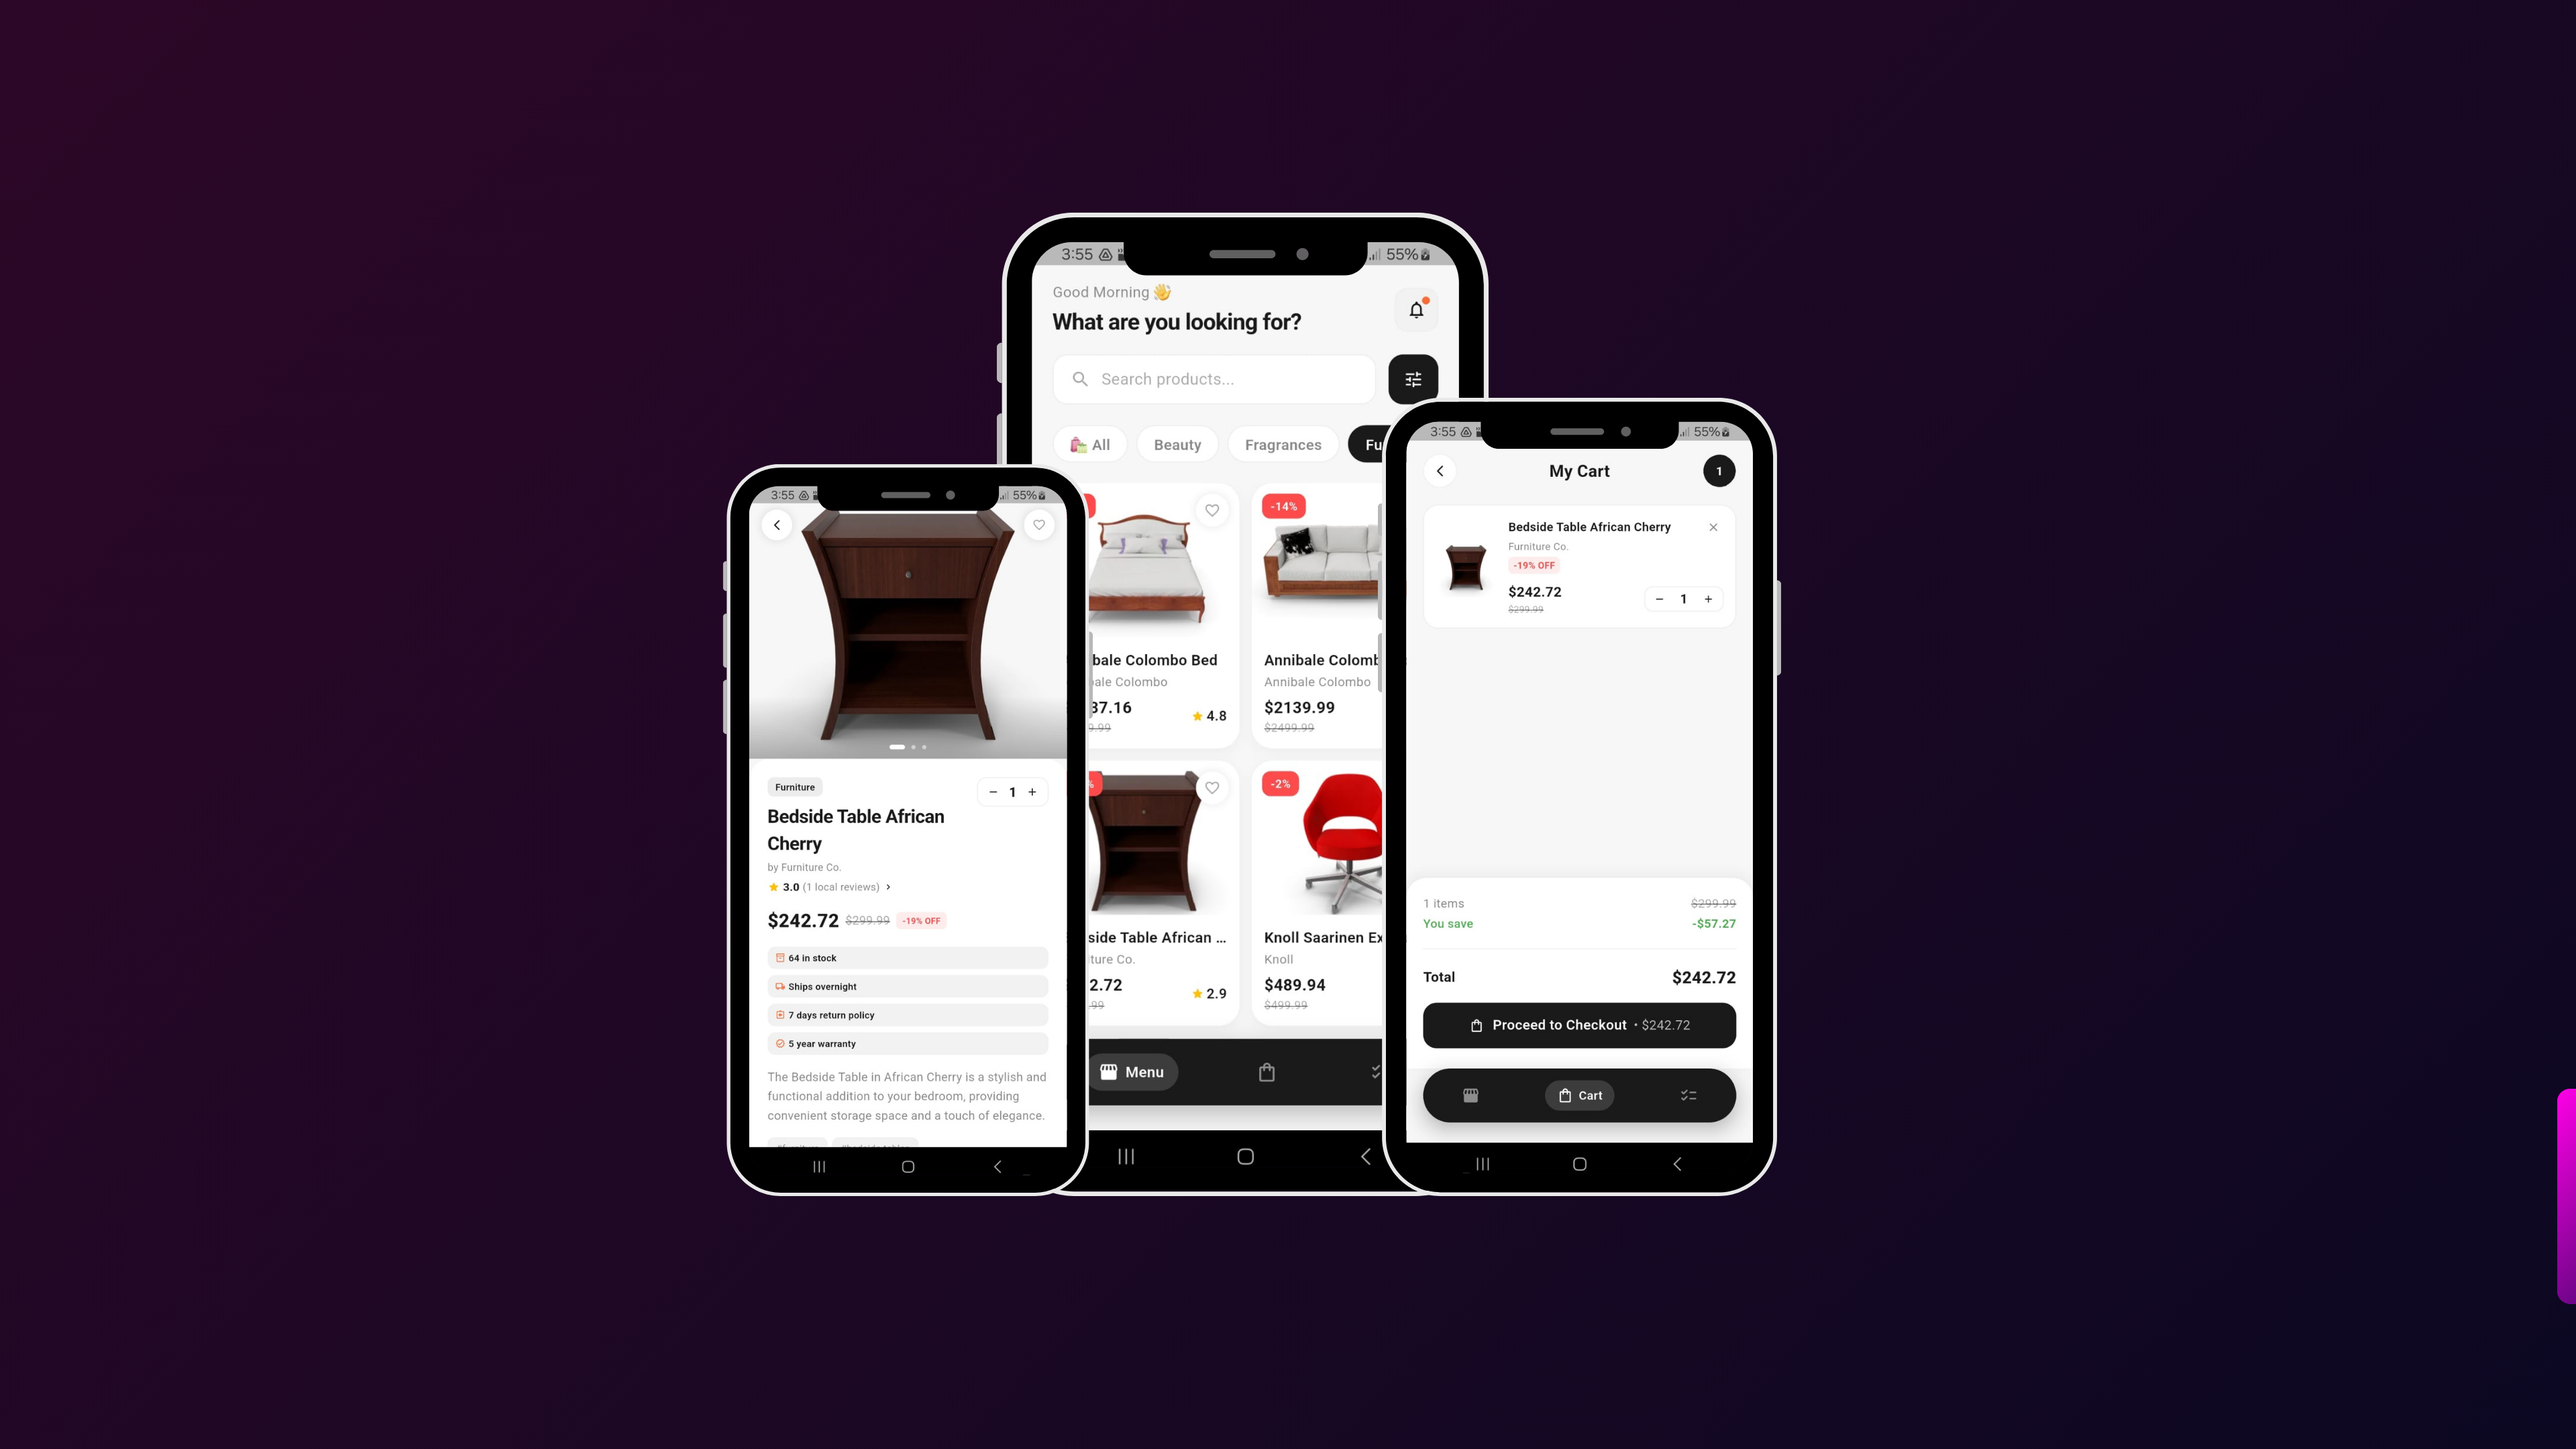
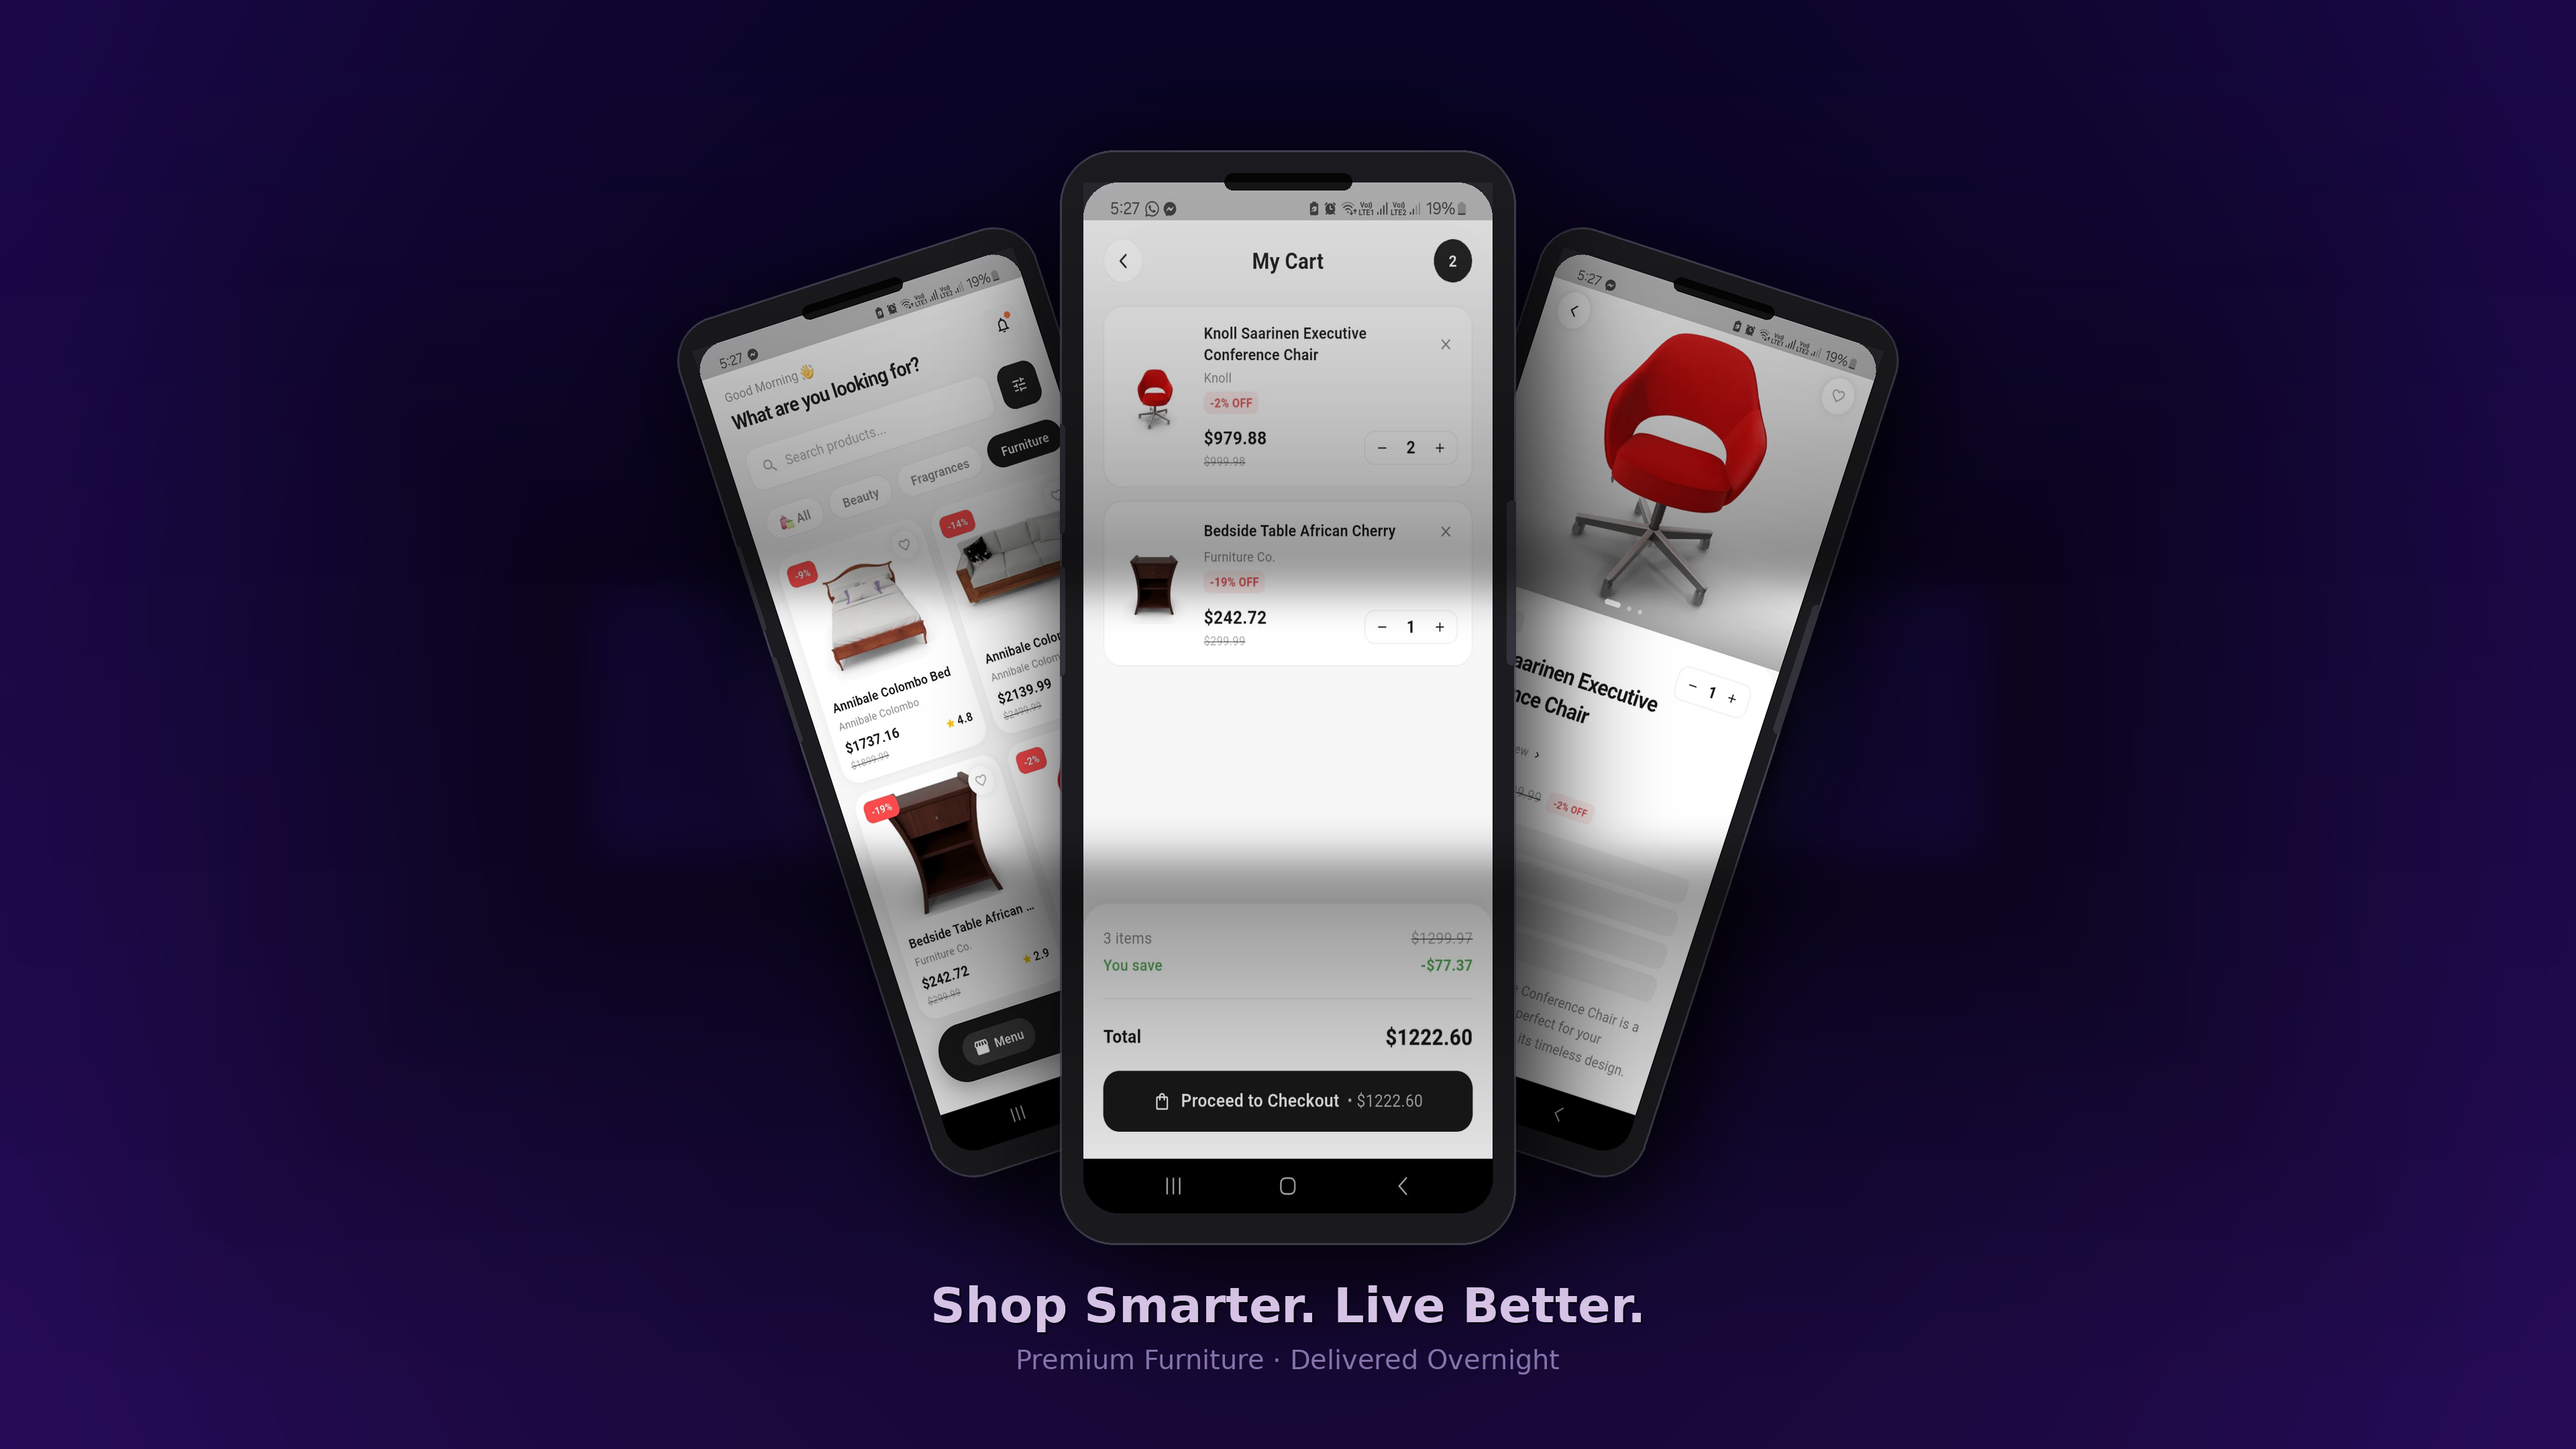
aa

diff --git a/lib/screens/widgets/all_projects_screen.dart b/lib/screens/widgets/all_projects_screen.dart
@@ -2,7 +2,6 @@ import 'package:flutter/material.dart';
 import 'package:taha_portfolio/core/services/portfolio_service.dart';
 import 'package:url_launcher/url_launcher.dart';
 import 'dart:ui';
-import '../../core/theme/app_theme.dart';
 import '../../core/utils/responsive.dart';
 import '../../models/project_model.dart';
 
@@ -572,7 +571,7 @@ class _CardImage extends StatelessWidget {
   @override
   Widget build(BuildContext context) {
     return SizedBox(
-      height: 200,
+      height: 260,
       child: Stack(
         fit: StackFit.expand,
         children: [

diff --git a/lib/models/project_model.dart b/lib/models/project_model.dart
@@ -52,7 +52,7 @@ class Project {
             'Designed and delivered a complete shopping flow with authentication, cart management, and order tracking, improving overall user experience and app stability.',
         technologies: ['Flutter', 'Mobile', 'Desktop', 'Api'],
         imagePath:
-            'assets/img/Clean and Modern App Portfolio Mockup Presentation.png',
+            'assets/img/pos_mockup.png',
         apkLink:
             'https://drive.google.com/file/d/1NMJjVptbIkzTFJixuu85F7pooYblovpK/view?usp=drive_link',
         videoLink:
